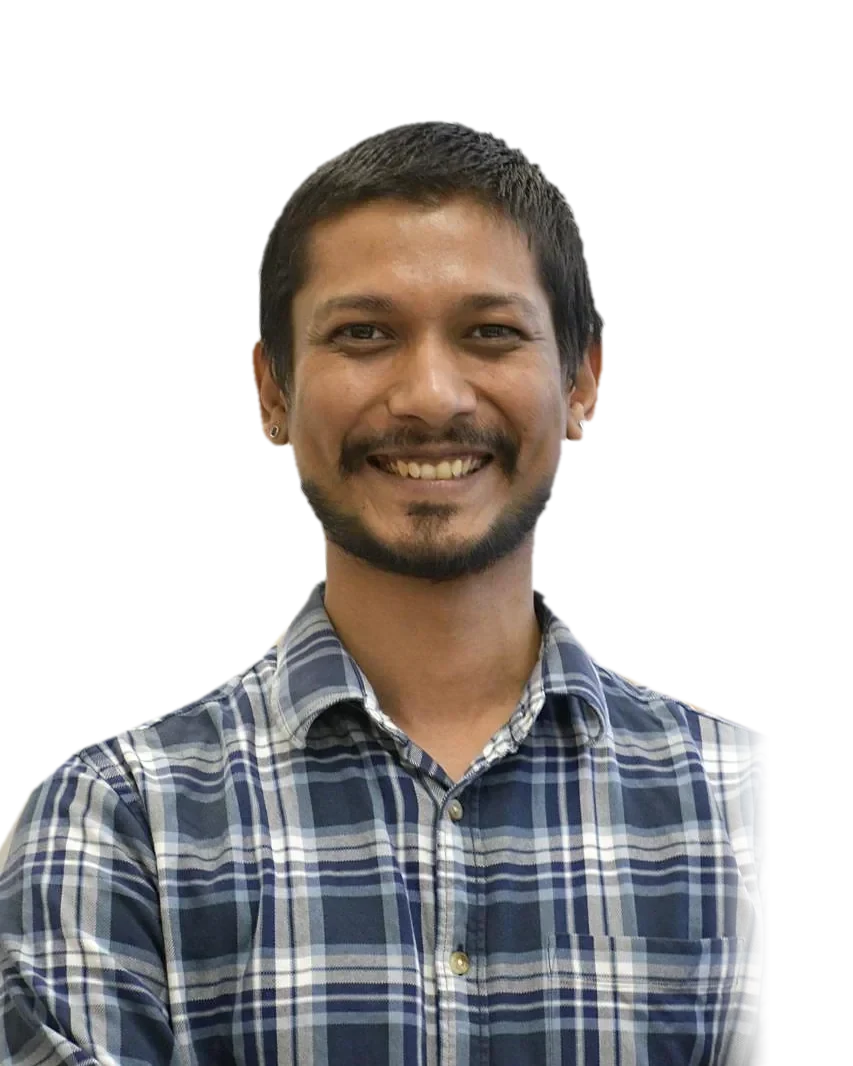
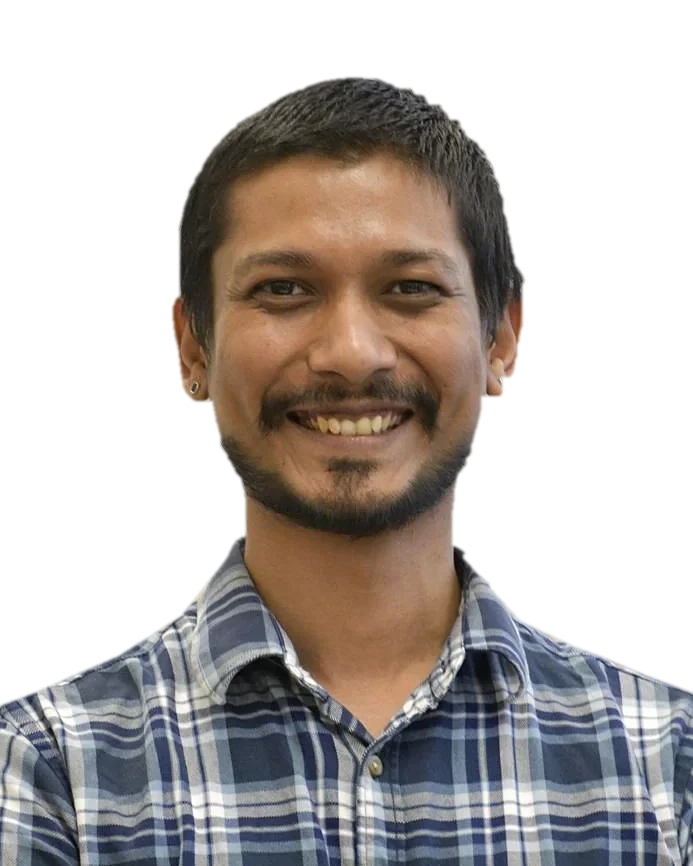
Softer off-white light mode; About portrait as a clean head-and-shoulders crop without fades

diff --git a/index.html b/index.html
@@ -11,7 +11,7 @@
     <link rel="manifest" href="/CV/v2/icons/site.webmanifest">
     <title>Bharat Singh Rawat, Ph.D. — Accelerator Physicist</title>
     <meta name="description" content="Bharat Singh Rawat, Ph.D. — accelerator physicist specialising in ion sources, beam extraction & transport, beam diagnostics and digital twins.">
-    <meta name="theme-color" content="#ffffff">
+    <meta name="theme-color" content="#f7f7f8">
     <link rel="canonical" href="https://bharat-singh-rawat.github.io/CV/">
     <!-- who this page is about, for search engines (schema.org Person) -->
     <script type="application/ld+json">
@@ -66,7 +66,7 @@
     <meta name="twitter:description" content="Accelerator physicist working on ion & electron sources, beam diagnostics and digital twins. Research, lab instruments, publications, lectures and simulations.">
     <meta name="twitter:image" content="https://bharat-singh-rawat.github.io/CV/v2/img/og-card.jpg?v=bsr1">
     <!-- ALL CV CONTENT COMES FROM /Dossier/profile.js — edit that file, not this page -->
-    <script src="/Dossier/profile.js?v=20261124g"></script>
+    <script src="/Dossier/profile.js?v=20261124j"></script>
     <script>
         /* theme: follow the system unless the visitor picked one (footer / search); decided before the page paints */
         (function () {
@@ -77,7 +77,7 @@
             window.cvInkRGB = dark ? '245, 245, 247' : '29, 29, 31';   /* line colour for the canvas scenes */
         })();
     </script>
-    <link rel="stylesheet" href="/CV/v2/v2.css?v=20261124g">
+    <link rel="stylesheet" href="/CV/v2/v2.css?v=20261124j">
 </head>
 <body>
     <!-- BSR intro: once per visit, skipped for reduced motion -->
@@ -290,24 +290,24 @@
         </div>
     </footer>
 
-    <script src="/CV/v2/i18n.js?v=20261124g"></script>
-    <script src="/CV/v2/v2.js?v=20261124g"></script>
-    <script src="/CV/v2/music.js?v=20261124g"></script>
-    <script src="/CV/v2/scenes.js?v=20261124g"></script>
-    <script src="/CV/v2/sfx.js?v=20261124g"></script>
-    <script src="/CV/v2/extras.js?v=20261124g"></script>
-    <script src="/CV/v2/clips.js?v=20261124g"></script>
-    <script src="/CV/v2/retro.js?v=20261124g"></script>
-    <script src="/CV/v2/polish.js?v=20261124g"></script>
-    <script src="/CV/v2/apple.js?v=20261124g"></script>
-    <script src="/CV/v2/flow.js?v=20261124g"></script>
-    <script src="/CV/v2/portrait-fx.js?v=20261124g"></script>
-    <script src="/CV/v2/image-fx.js?v=20261124g"></script>
-    <script src="/CV/v2/mobile.js?v=20261124g"></script>
+    <script src="/CV/v2/i18n.js?v=20261124j"></script>
+    <script src="/CV/v2/v2.js?v=20261124j"></script>
+    <script src="/CV/v2/music.js?v=20261124j"></script>
+    <script src="/CV/v2/scenes.js?v=20261124j"></script>
+    <script src="/CV/v2/sfx.js?v=20261124j"></script>
+    <script src="/CV/v2/extras.js?v=20261124j"></script>
+    <script src="/CV/v2/clips.js?v=20261124j"></script>
+    <script src="/CV/v2/retro.js?v=20261124j"></script>
+    <script src="/CV/v2/polish.js?v=20261124j"></script>
+    <script src="/CV/v2/apple.js?v=20261124j"></script>
+    <script src="/CV/v2/flow.js?v=20261124j"></script>
+    <script src="/CV/v2/portrait-fx.js?v=20261124j"></script>
+    <script src="/CV/v2/image-fx.js?v=20261124j"></script>
+    <script src="/CV/v2/mobile.js?v=20261124j"></script>
     <script>
         /* career globe (land dots ~130 KB + renderer): fetched only when Career comes near, not on first load */
         (function () {
-            var sec = document.getElementById('career'), V = '20261124g', loaded = false;
+            var sec = document.getElementById('career'), V = '20261124j', loaded = false;
             function load() {
                 if (loaded) return; loaded = true;
                 var a = document.createElement('script'); a.src = '/CV/v2/globe-dots.js?v=' + V;

diff --git a/v2/v2.css b/v2/v2.css
@@ -2,8 +2,8 @@
    "The Beamline" — v2 CV, Apple-style light design
    ===================================================================== */
 :root {
-    --bg: #ffffff;
-    --card: #f5f5f7;
+    --bg: #f7f7f8;          /* light mode: a soft off-white, easier on the eyes than pure white */
+    --card: #ededef;
     --text: #1d1d1f;
     --body: #424245;
     --muted: #6e6e73;
@@ -23,12 +23,12 @@
     --shadow: 0 2px 6px rgba(0, 0, 0, 0.03), 0 12px 32px rgba(0, 0, 0, 0.06);
     --shadow-hover: 0 4px 10px rgba(0, 0, 0, 0.04), 0 24px 56px rgba(0, 0, 0, 0.12);
 }
-.alt { --bg: #f5f5f7; --card: #ffffff; }
+.alt { --bg: #eeeef0; --card: #fbfbfc; }
 
 * { box-sizing: border-box; }
 html { scroll-behavior: smooth; scroll-padding-top: 52px; }
 body {
-    margin: 0; background: #fff; color: var(--text);
+    margin: 0; background: #f7f7f8; color: var(--text);
     font: 400 17px/1.47 var(--sans); letter-spacing: -0.022em;
     -webkit-font-smoothing: antialiased; text-rendering: optimizeLegibility;
     overflow-x: hidden;
@@ -138,12 +138,10 @@ html[data-theme="dark"] .bsr-intro { background: #000; }
 .about-photo:hover { box-shadow: var(--shadow-hover); }
 .about-photo:hover img { transform: none; }   /* hover belongs to the dust effect (portrait-fx.js) */
 .about-photo img { filter: grayscale(calc(1 - var(--colour, 0))); }
-/* the photo is a cut-out: no tile, no shadow; it sits straight on the page colour and the shirt fades out at the bottom */
+html:not([data-theme="dark"]) .about-photo img { filter: grayscale(calc(1 - var(--colour, 0))) brightness(0.97); }   /* light mode: pure whites match the off-white page instead of glowing */
+/* the photo is a cut-out (head-and-shoulders crop): no tile, no shadow, no fades; it sits straight on the page colour */
 .about-photo, .about-photo:hover { box-shadow: none; }
-.about-photo .zoom, html[data-theme="dark"] .about-photo .zoom { background: transparent; border-radius: 0;
-    --fade-b: linear-gradient(to bottom, #000 82%, transparent 100%); --fade-x: linear-gradient(to right, transparent 0, #000 7%, #000 93%, transparent 100%);
-    -webkit-mask-image: var(--fade-b), var(--fade-x); -webkit-mask-composite: source-in;
-    mask-image: var(--fade-b), var(--fade-x); mask-composite: intersect; }
+.about-photo .zoom, html[data-theme="dark"] .about-photo .zoom { background: transparent; border-radius: 0; }
 .about-title { font-size: clamp(2.4rem, 5vw, 3.6rem); letter-spacing: -0.04em; line-height: 1.05; margin: 0 0 22px; font-weight: 700; }
 .about-body { font-size: clamp(1.15rem, 1.7vw, 1.35rem); line-height: 1.5; color: var(--muted); margin: 0 0 28px; font-weight: 500; letter-spacing: -0.015em; }
 
@@ -397,7 +395,7 @@ a.title:hover { color: var(--link); text-decoration: underline; }
     .ln-toggle { display: grid; place-items: center; margin-right: auto; }
     .topnav {
         position: absolute; top: 52px; left: 0; right: 0; flex-direction: column; align-items: stretch; gap: 0;
-        padding: 6px 22px 18px; background: rgba(255, 255, 255, 0.96); backdrop-filter: saturate(180%) blur(20px); -webkit-backdrop-filter: saturate(180%) blur(20px);
+        padding: 6px 22px 18px; background: rgba(247, 247, 248, 0.96); backdrop-filter: saturate(180%) blur(20px); -webkit-backdrop-filter: saturate(180%) blur(20px);
         border-bottom: 1px solid rgba(0, 0, 0, 0.1);
         opacity: 0; visibility: hidden; transform: translateY(-8px); transition: opacity 0.35s var(--ease), transform 0.35s var(--ease), visibility 0.35s;
     }

diff --git a/v2/portrait-fx.js b/v2/portrait-fx.js
@@ -104,8 +104,10 @@
                     const x = p.x + p.ox + fl * W * (0.35 * p.dr + 0.06 * Math.sin(t * 0.7 + p.ph + p.y * 0.03));
                     const y = p.y + p.oy - fl * W * (0.22 * p.dr + 0.05 * Math.cos(t * 0.6 + p.ph + p.x * 0.025));
                     // grey -> colour following the scroll fade, then a little richer and theme-balanced
-                    const s2 = colour * sat, c = v => Math.round(clamp((p.L + (v - p.L) * s2) * k / 255) * 255);
-                    ctx.fillStyle = `rgba(${c(p.R)},${c(p.G)},${c(p.B)},${0.3 + 0.7 * p.a})`;
+                    const s2 = colour * sat, c = v => clamp((p.L + (v - p.L) * s2) * k / 255) * 255;
+                    let R = c(p.R), G = c(p.G), B = c(p.B);
+                    if (!dark) { const mx = Math.max(R, G, B); if (mx > 226) { const f = 226 / mx; R *= f; G *= f; B *= f; } }   // light mode: no dot brighter than the off-white page (no "glowing" specks)
+                    ctx.fillStyle = `rgba(${R | 0},${G | 0},${B | 0},${0.3 + 0.7 * p.a})`;
                     const r = 1.3 + 0.6 * p.w; ctx.fillRect(x, y, r, r);
                 }
                 // photo fades out at once on approach, and back in only once the dots are home

diff --git a/v2/polish.js b/v2/polish.js
@@ -86,7 +86,7 @@
         const dark = pref === 'dark' || (pref === 'auto' && mq.matches);
         root.dataset.theme = dark ? 'dark' : 'light'; root.dataset.themePref = pref;
         window.cvInkRGB = dark ? '245, 245, 247' : '29, 29, 31';
-        if (themeMeta) themeMeta.content = dark ? '#000000' : '#ffffff';
+        if (themeMeta) themeMeta.content = dark ? '#000000' : '#f7f7f8';
         document.querySelectorAll('.foot-theme button').forEach(b => b.setAttribute('aria-pressed', String(b.dataset.theme === pref)));
         window.dispatchEvent(new Event('resize'));          // canvas scenes redraw in the new ink
     }
